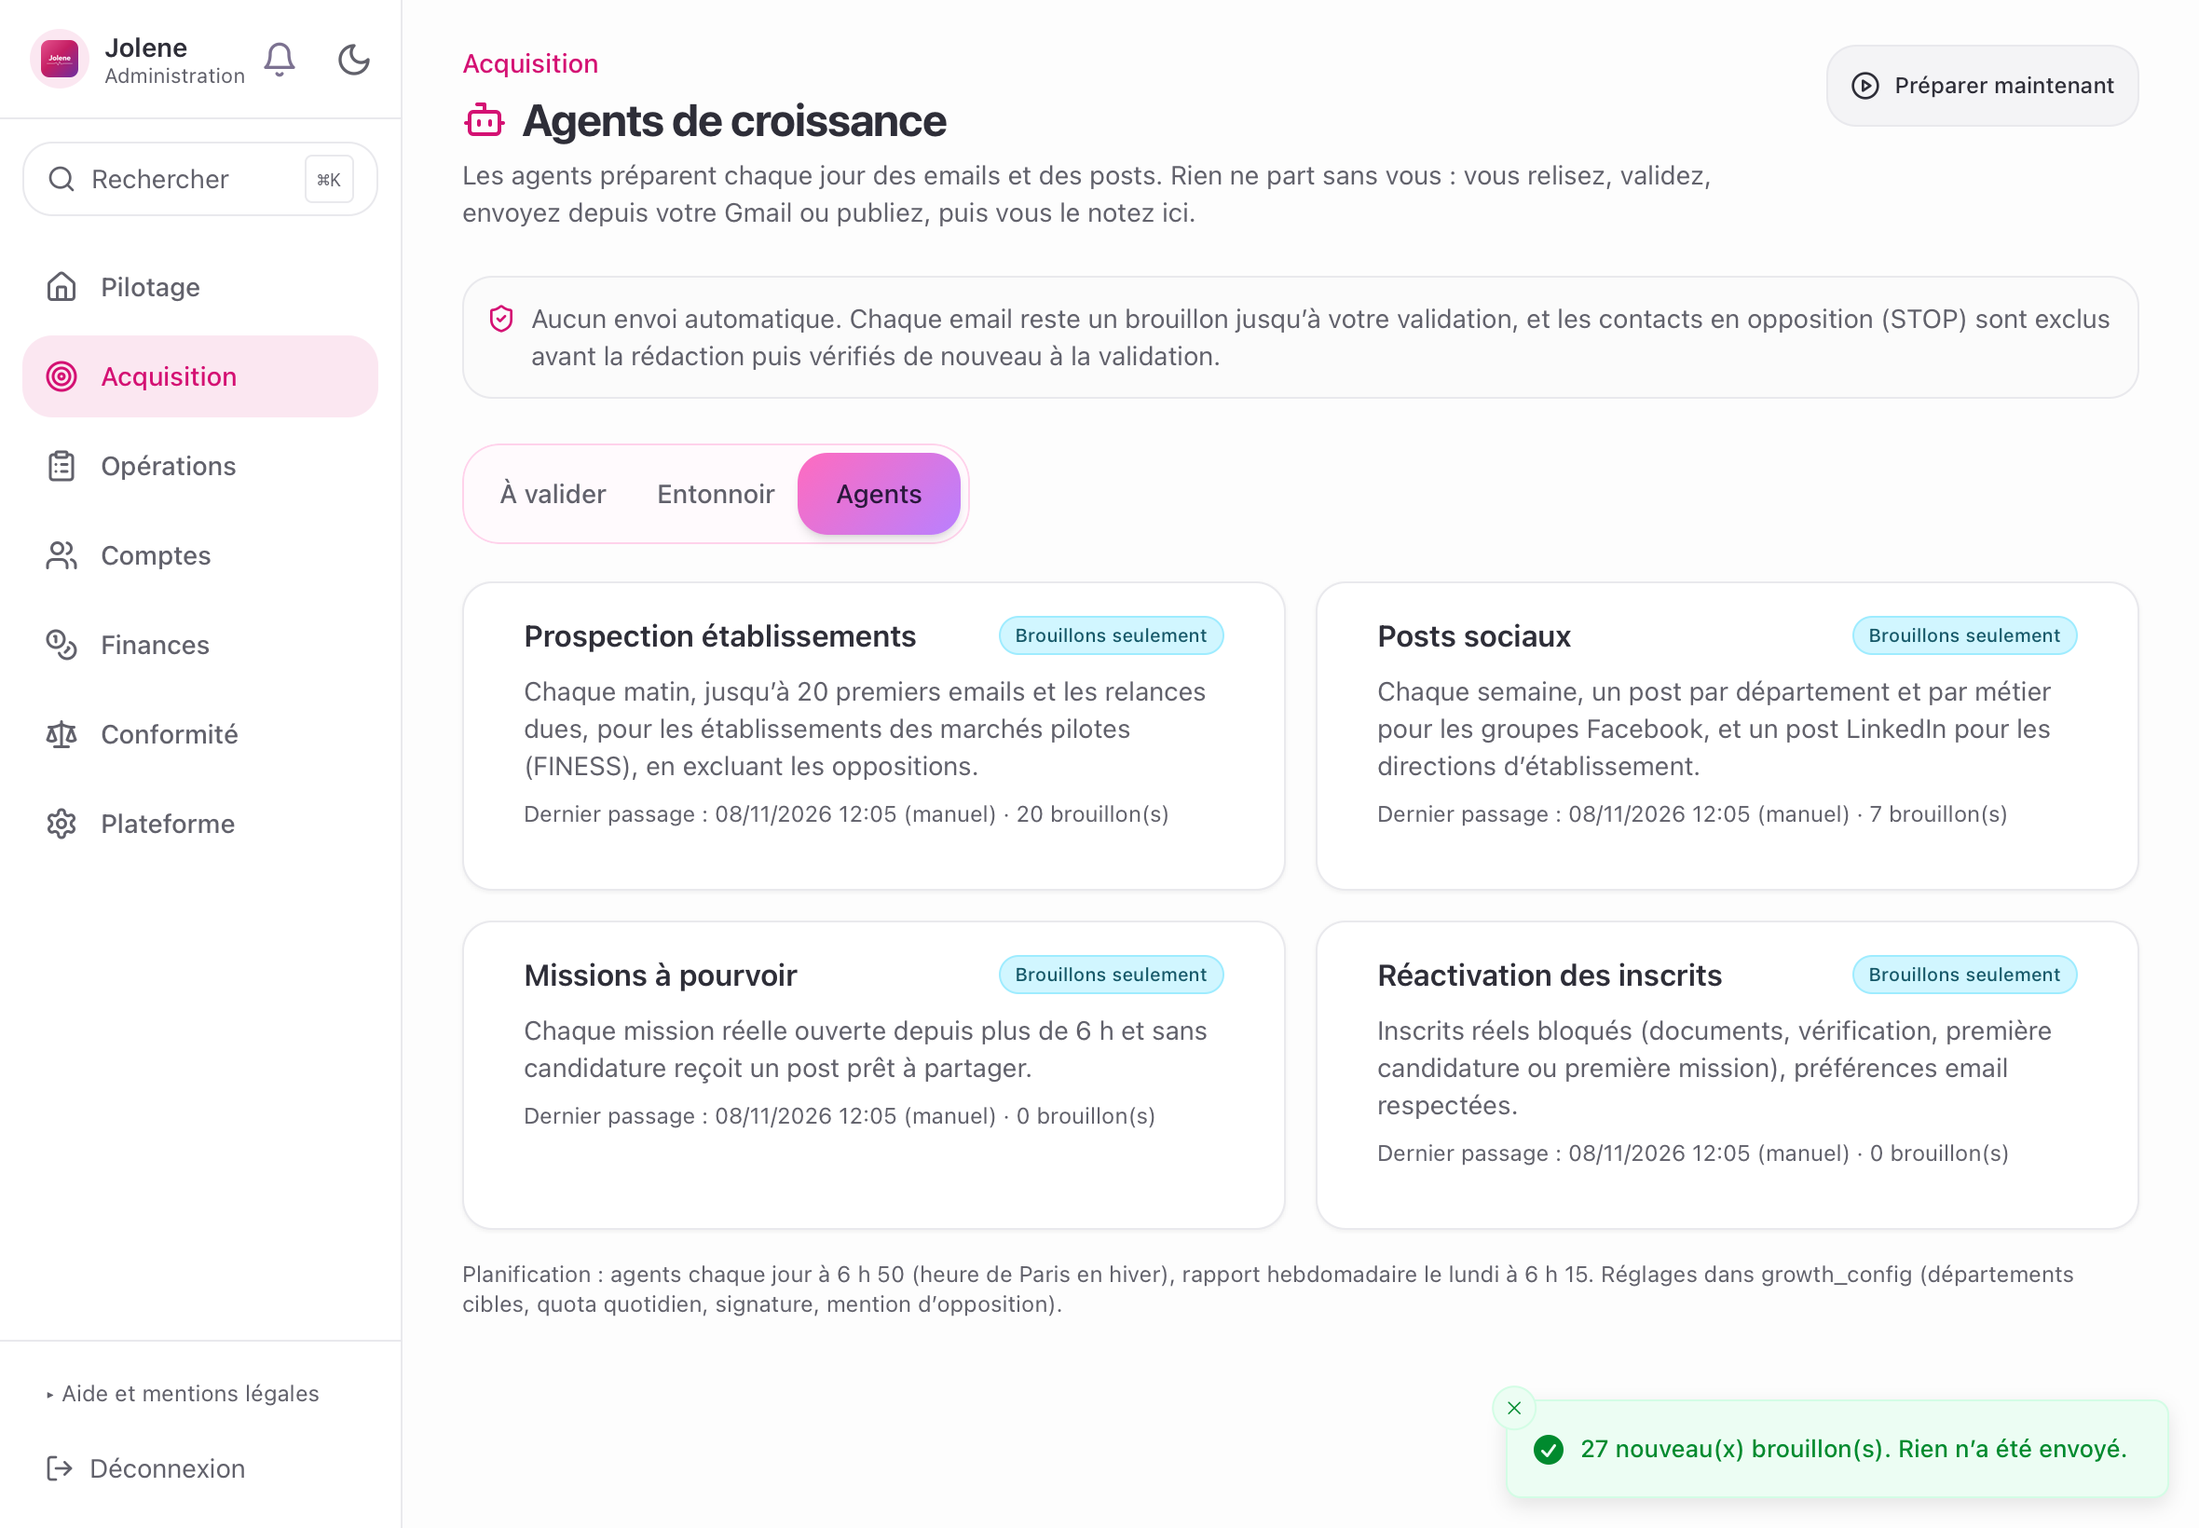
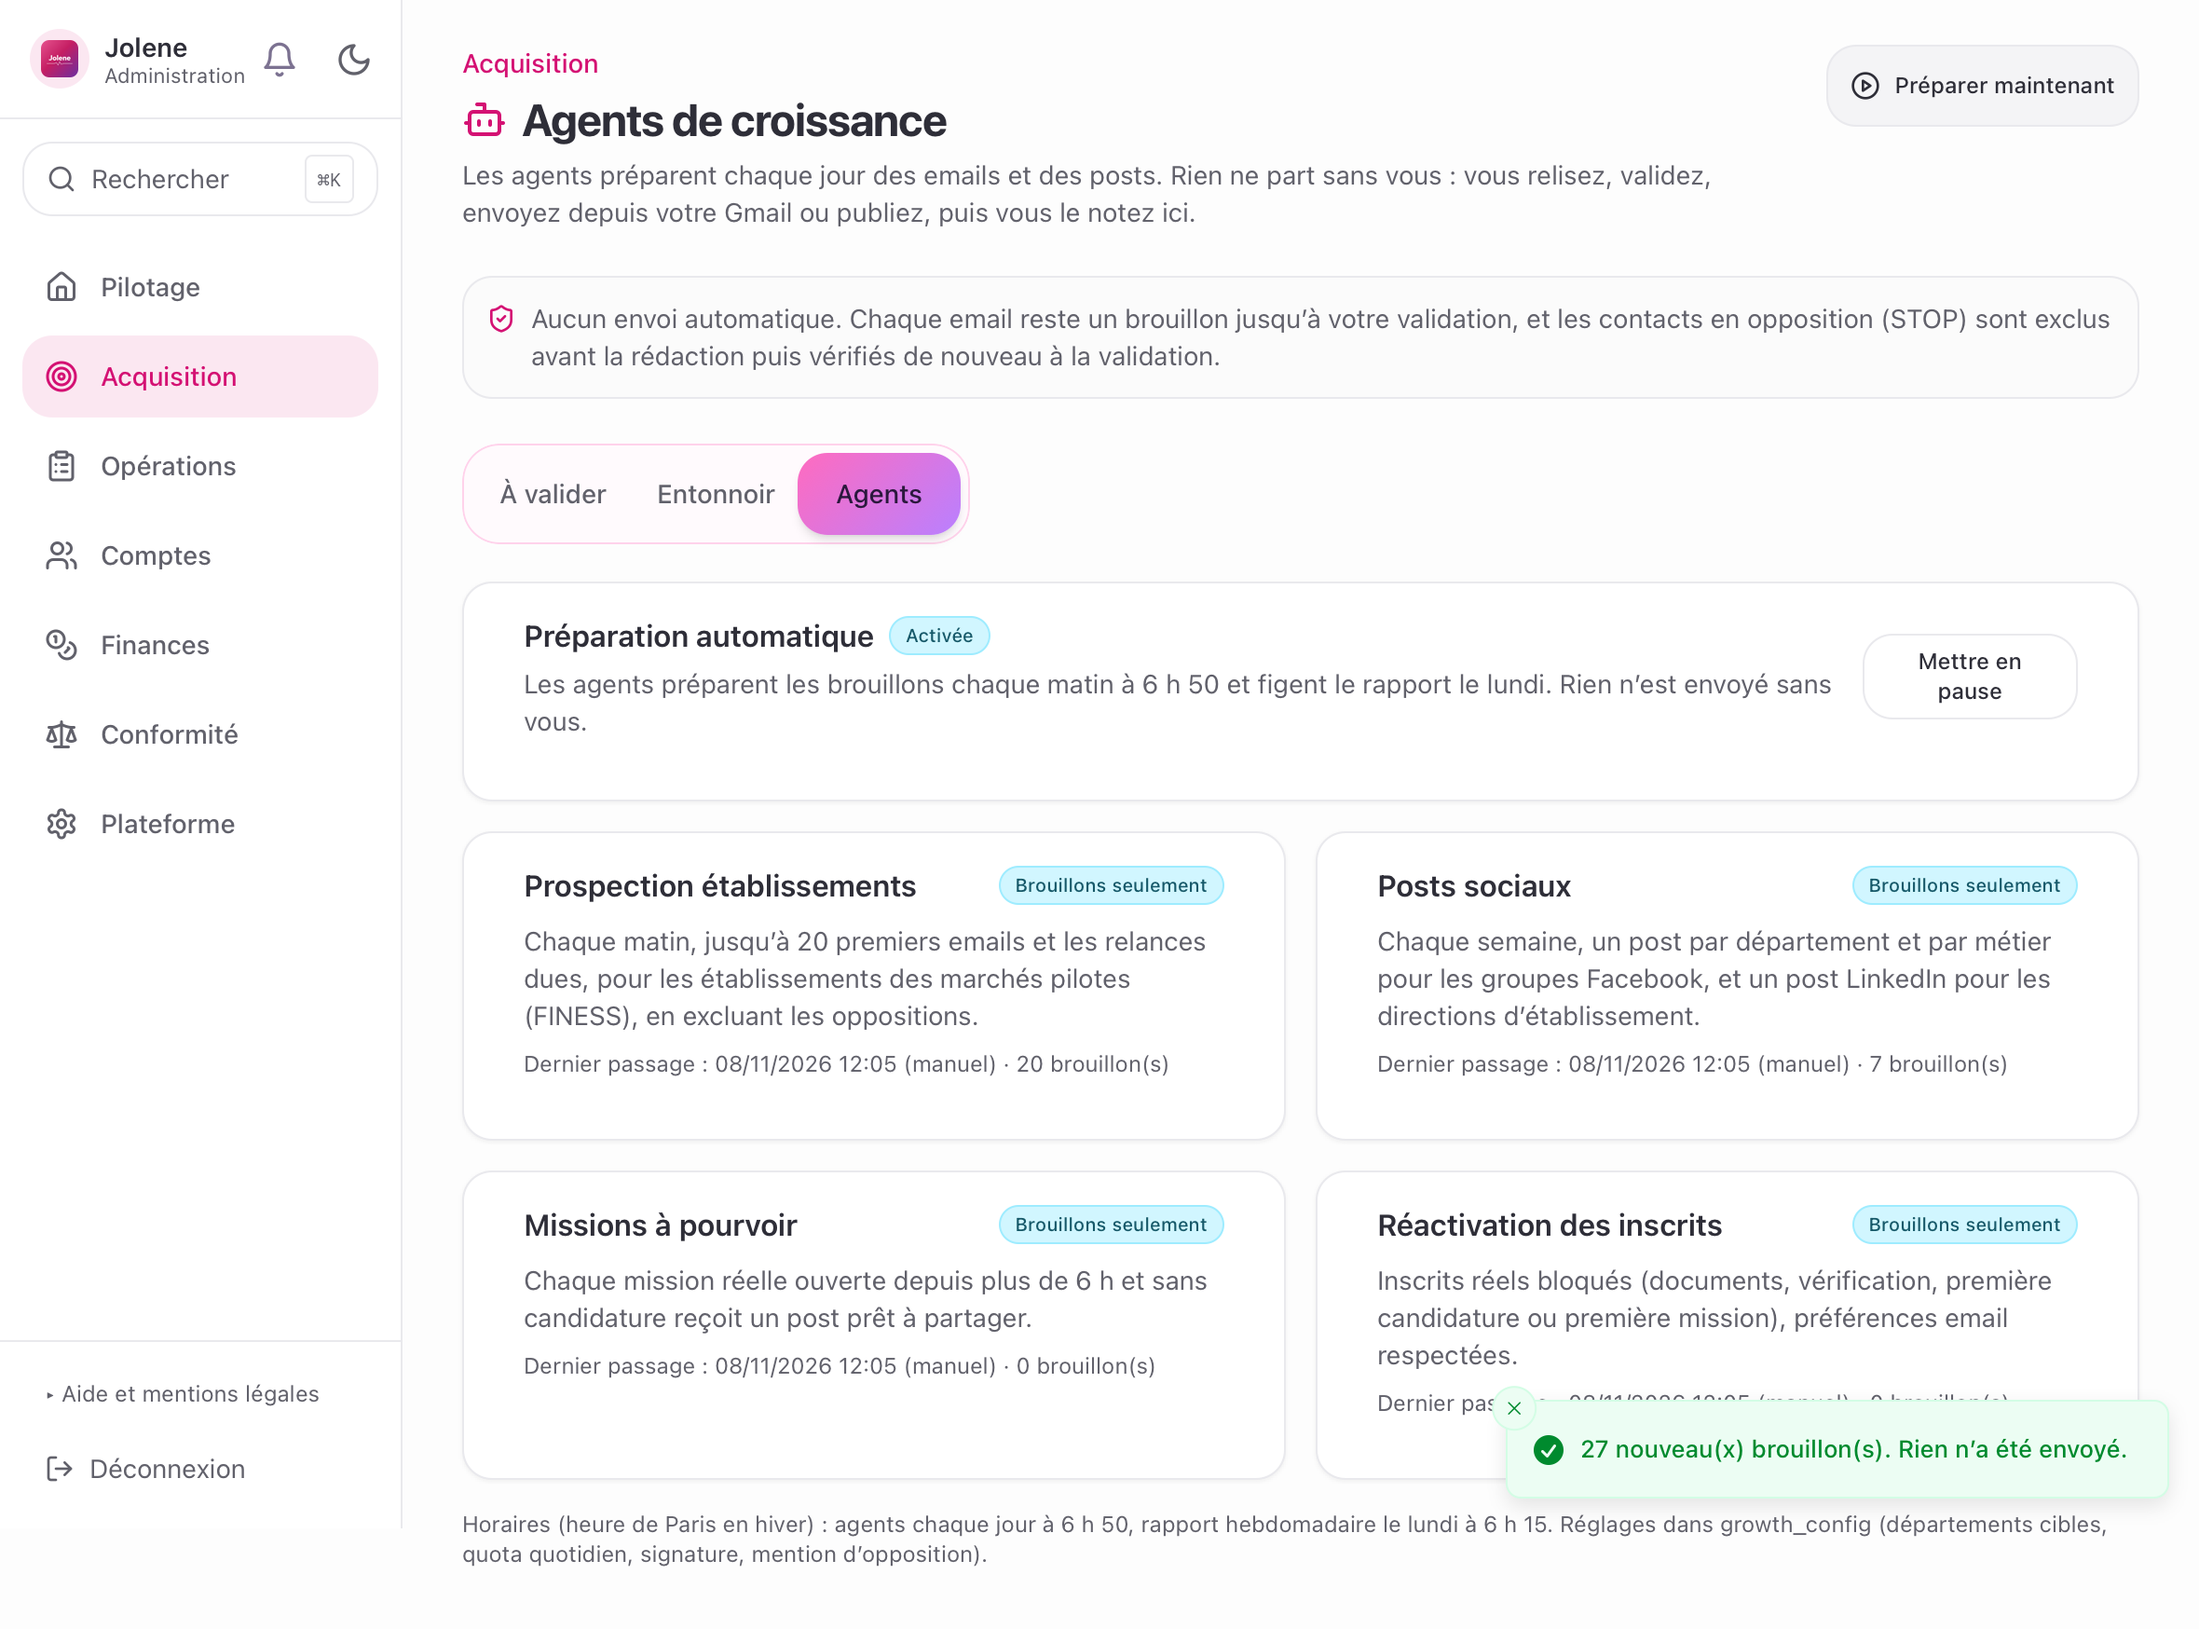
fix(acquisition): crons des agents créés désactivés, activation par la fondatrice depuis l'admin
Le staging doit rester sans cron actif (garde de la suite suppression F161) :
les deux crons jolene_growth_* sont désormais planifiés puis désactivés
partout. Nouvelle RPC admin fn_admin_growth_planification(p_actif) (NULL =
lecture) qui active/pause les deux crons et le drapeau growth_config ;
bouton « Activer la préparation automatique » dans l'onglet Agents.
Test SQL et recette (5 formats) mis à jour.

diff --git a/src/pages/admin/AdminAgentsCroissance.tsx b/src/pages/admin/AdminAgentsCroissance.tsx
@@ -46,6 +46,12 @@ interface Execution {
   erreur: string | null;
 }
 
+interface Planification {
+  actif: boolean;
+  pg_cron: boolean;
+  jobs: Array<{ jobname: string; schedule: string; active: boolean }>;
+}
+
 interface RapportHebdo {
   semaine_debut: string;
   donnees: EntonnoirCroissance;
@@ -281,6 +287,8 @@ export default function AdminAgentsCroissance() {
   const [rapports, setRapports] = useState<RapportHebdo[]>([]);
   const [executions, setExecutions] = useState<Execution[]>([]);
   const [lancement, setLancement] = useState(false);
+  const [planif, setPlanif] = useState<Planification | null>(null);
+  const [bascule, setBascule] = useState(false);
   const [erreur, setErreur] = useState<string | null>(null);
 
   const chargerFile = useCallback(async () => {
@@ -305,11 +313,26 @@ export default function AdminAgentsCroissance() {
   }, [jours]);
 
   const chargerExecutions = useCallback(async () => {
-    const { data, error } = await db.from('growth_agent_executions')
-      .select('id, agent, declencheur, debut_le, brouillons_crees, erreur')
-      .order('debut_le', { ascending: false }).limit(40);
-    if (!error) setExecutions((data ?? []) as Execution[]);
+    const [exec, plan] = await Promise.all([
+      db.from('growth_agent_executions')
+        .select('id, agent, declencheur, debut_le, brouillons_crees, erreur')
+        .order('debut_le', { ascending: false }).limit(40),
+      db.rpc('fn_admin_growth_planification', { p_actif: null }),
+    ]);
+    if (!exec.error) setExecutions((exec.data ?? []) as Execution[]);
+    if (plan.error) setErreur(plan.error.message); else setPlanif(plan.data as Planification);
   }, []);
+
+  const basculerPlanification = async (actif: boolean) => {
+    setBascule(true);
+    const { data, error } = await db.rpc('fn_admin_growth_planification', { p_actif: actif });
+    setBascule(false);
+    if (error) { toast.error(error.message); return; }
+    setPlanif(data as Planification);
+    toast.success(actif
+      ? 'Préparation automatique activée : brouillons chaque matin à 6 h 50, rapport le lundi. Aucun envoi.'
+      : 'Préparation automatique en pause.');
+  };
 
   useEffect(() => { if (vue === 'file') void chargerFile(); }, [vue, chargerFile]);
   useEffect(() => { if (vue === 'entonnoir') void chargerEntonnoir(); }, [vue, chargerEntonnoir]);
@@ -470,6 +493,33 @@ export default function AdminAgentsCroissance() {
           </TabsContent>
 
           <TabsContent value="agents" className="mt-5 space-y-4">
+            <CardY2K hoverLift={false} data-testid="planification-croissance">
+              <CardY2KContent className="flex flex-col gap-3 sm:flex-row sm:items-center sm:justify-between">
+                <div className="min-w-0 space-y-1">
+                  <div className="flex flex-wrap items-center gap-2">
+                    <h3 className="font-semibold text-foreground">Préparation automatique</h3>
+                    {planif === null ? null : planif.actif
+                      ? <BadgeY2K variant="success" size="sm">Activée</BadgeY2K>
+                      : <BadgeY2K variant="warning" size="sm">En pause</BadgeY2K>}
+                  </div>
+                  <p className="text-sm text-muted-foreground">
+                    {planif?.actif
+                      ? 'Les agents préparent les brouillons chaque matin à 6 h 50 et figent le rapport le lundi. Rien n’est envoyé sans vous.'
+                      : 'Les agents ne tournent que si vous cliquez sur « Préparer maintenant ». Activez la préparation pour recevoir les brouillons chaque matin.'}
+                  </p>
+                </div>
+                {planif === null ? null : (
+                  <BoutonY2K
+                    size="sm"
+                    variant={planif.actif ? 'secondary' : 'primary'}
+                    onClick={() => basculerPlanification(!planif.actif)}
+                    loading={bascule}
+                  >
+                    {planif.actif ? 'Mettre en pause' : 'Activer la préparation automatique'}
+                  </BoutonY2K>
+                )}
+              </CardY2KContent>
+            </CardY2K>
             <div className="grid gap-4 lg:grid-cols-2">
               {(Object.keys(AGENTS) as AgentCroissance[]).map((a) => {
                 const derniere = derniereParAgent.get(a);
@@ -491,7 +541,7 @@ export default function AdminAgentsCroissance() {
               })}
             </div>
             <p className="text-xs text-muted-foreground">
-              Planification : agents chaque jour à 6 h 50 (heure de Paris en hiver), rapport hebdomadaire le lundi à 6 h 15. Réglages dans
+              Horaires (heure de Paris en hiver) : agents chaque jour à 6 h 50, rapport hebdomadaire le lundi à 6 h 15. Réglages dans
               growth_config (départements cibles, quota quotidien, signature, mention d’opposition).
             </p>
           </TabsContent>

diff --git a/e2e/recette-complete-admin-agents-croissance.spec.ts b/e2e/recette-complete-admin-agents-croissance.spec.ts
@@ -61,6 +61,8 @@ async function simulerAgents(page: Page) {
   const decisions: Array<{ p_id: string; p_action: string; p_sujet: string | null }> = [];
   let executions: Array<Record<string, unknown>> = [];
   let lancements = 0;
+  let planifActive = false;
+  const bascules: Array<boolean | null> = [];
   const cors = { 'access-control-allow-origin': '*', 'access-control-allow-headers': '*', 'access-control-expose-headers': 'content-range' };
 
   await page.route('**/rest/v1/growth_brouillons**', async (route) => {
@@ -78,6 +80,13 @@ async function simulerAgents(page: Page) {
   await page.route('**/rest/v1/rpc/fn_admin_growth_entonnoir', async (route) => {
     expect(route.request().postDataJSON()).toEqual({ p_jours: 7 });
     return route.fulfill({ json: entonnoir, headers: cors });
+  });
+  await page.route('**/rest/v1/rpc/fn_admin_growth_planification', async (route) => {
+    const p = route.request().postDataJSON();
+    bascules.push(p.p_actif);
+    if (p.p_actif !== null) planifActive = p.p_actif;
+    const jobs = ['jolene_growth_agents_quotidien', 'jolene_growth_rapport_hebdo'].map((jobname) => ({ jobname, schedule: jobname.endsWith('hebdo') ? '15 5 * * 1' : '50 5 * * *', active: planifActive }));
+    return route.fulfill({ json: { actif: planifActive, pg_cron: true, jobs }, headers: cors });
   });
   await page.route('**/rest/v1/rpc/fn_admin_growth_executer_agents', async (route) => {
     lancements++;
@@ -111,7 +120,7 @@ async function simulerAgents(page: Page) {
     (window as unknown as { __ouverts: string[] }).__ouverts = [];
     window.open = ((url?: string | URL) => { (window as unknown as { __ouverts: string[] }).__ouverts.push(String(url)); return null; }) as typeof window.open;
   }, { id: ids.user });
-  return { etat, brouillons, decisions, lancements: () => lancements };
+  return { etat, brouillons, decisions, lancements: () => lancements, bascules };
 }
 
 test('admin — agents de croissance : file, validation Gmail, constat d’envoi, opposition, reprise, entonnoir', async ({ page }, info) => {
@@ -190,9 +199,16 @@ test('admin — agents de croissance : file, validation Gmail, constat d’envoi
   await expect(page.getByText('Le premier rapport sera figé lundi matin pour la semaine écoulée.')).toBeVisible();
   await preuve(page, 'agents-croissance-entonnoir', info);
 
-  // État 6 — agents : lancement manuel, brouillons seulement.
+  // État 6 — agents : préparation automatique en pause par défaut, activation explicite.
   await page.getByRole('tab', { name: 'Agents' }).click();
+  const planification = page.getByTestId('planification-croissance');
+  await expect(planification.getByText('En pause', { exact: true })).toBeVisible();
   await expect(page.getByText('Dernier passage : aucun pour l’instant')).toHaveCount(4);
+  await planification.getByRole('button', { name: 'Activer la préparation automatique' }).click();
+  await expect(planification.getByText('Activée', { exact: true })).toBeVisible();
+  await expect(planification.getByRole('button', { name: 'Mettre en pause' })).toBeVisible();
+  await stabiliserLectures(page); await page.reload();
+  await expect(page.getByTestId('planification-croissance').getByText('Activée', { exact: true })).toBeVisible();
   await page.getByRole('button', { name: 'Préparer maintenant' }).click();
   await expect(page.getByText('27 nouveau(x) brouillon(s). Rien n’a été envoyé.')).toBeVisible();
   await expect(page.getByText(/Dernier passage : .*\(manuel\) · 20 brouillon\(s\)/)).toBeVisible();
@@ -202,6 +218,7 @@ test('admin — agents de croissance : file, validation Gmail, constat d’envoi
 
   // Aucune écriture hors des trois RPC prévues, aucune requête externe.
   expect(sim.decisions.map((d) => d.p_action)).toEqual(['VALIDER', 'VALIDER', 'MARQUER_ENVOYE']);
+  expect(sim.bascules).toEqual([null, true, null, null]);
   expect(sim.etat.ecritures).toEqual([]);
   expect(sim.etat.inconnues).toEqual([]);
   expect(sim.etat.erreurs).toEqual([]);

diff --git a/docs/AGENTS_CROISSANCE.md b/docs/AGENTS_CROISSANCE.md
@@ -101,9 +101,16 @@ Ce sont quatre routines SQL quotidiennes, plus un rapport hebdomadaire. **Aucune
 que ce soit** : ni pg_net, ni Resend, ni SMS, ni publication. Elles n'appellent pas de LLM, donc
 ne coûtent rien en tokens.
 
+Les deux crons (`jolene_growth_agents_quotidien`, `jolene_growth_rapport_hebdo`) sont créés
+**désactivés**, en production comme sur le staging, qui doit rester sans cron actif. La fondatrice
+les active depuis l'onglet Agents (« Activer la préparation automatique »). Ce bouton appelle
+`fn_admin_growth_planification(true)` et ne demande aucun SQL manuel en production.
+« Préparer maintenant » lance les agents à la demande, que la préparation automatique soit active
+ou non.
+
 | Agent | Quand | Produit |
 |---|---|---|
-| Prospection établissements | chaque jour à 05:50 UTC | Jusqu'à 20 premiers emails par jour (file plafonnée à 60), plus les relances étapes 2 et 3 des contacts CRM échus. Détail ci-dessous. |
+| Prospection établissements | chaque jour à 05:50 UTC, une fois activé | Jusqu'à 20 premiers emails par jour (file plafonnée à 60), plus les relances étapes 2 et 3 des contacts CRM échus. Détail ci-dessous. |
 | Posts sociaux | chaque jour (idempotent à la semaine) | 1 post Facebook par département × {AS, IDE} et 1 post LinkedIn par semaine. Chiffres réels : missions ouvertes réelles, ou à défaut données BMO publiques. Groupes suggérés. |
 | Missions à pourvoir | chaque jour | 1 post par mission réelle ouverte depuis plus de 6 h, sans candidature, avec lien `/mission/:id` et UTM |
 | Réactivation | chaque jour | Email aux inscrits réels bloqués (documents, vérification, candidature, première mission), au plus un tous les 14 jours, `preferences_notifications` respecté |
@@ -163,13 +170,15 @@ Il n'y a aucune mention réglementaire.
 ## 6. Ce qui attend le feu vert de Gabrielle
 
 1. **Merge de cette PR** (tiering B9 : nouvelles tables RLS, RPC SECURITY DEFINER, GRANT ; HARD
-   STOP n°4 sur le wording du §5). Après le merge, les crons produisent des brouillons dès le
-   lendemain 06:50 (heure de Paris).
-2. **Premiers envois réels** : c'est la fondatrice qui valide et envoie chaque email depuis son Gmail.
-3. **Réactivation des imports BOAMP, BMO et FINESS** (crons en pause) : à rejouer après correction
+   STOP n°4 sur le wording du §5).
+2. **Activation** : dans Admin → Agents de croissance → onglet Agents, cliquer sur « Activer la
+   préparation automatique ». Les brouillons arrivent ensuite chaque matin à 06:50 (heure de Paris).
+   On peut aussi cliquer sur « Préparer maintenant » pour en avoir tout de suite.
+3. **Premiers envois réels** : c'est la fondatrice qui valide et envoie chaque email depuis son Gmail.
+4. **Réactivation des imports BOAMP, BMO et FINESS** (crons en pause) : à rejouer après correction
    de l'authentification de service, une source à la fois, en surveillant le CPU.
-4. **`automatisations_marketing_actives=true`** (relance, digest, avis) : non recommandé avant
+5. **`automatisations_marketing_actives=true`** (relance, digest, avis) : non recommandé avant
    d'avoir ajouté le lien de désinscription en 1 clic et le respect de `preferences_notifications`
    dans ces trois Edge Functions.
-5. **Activer Vercel Web Analytics** (ou un équivalent sans cookie) pour mesurer le trafic SEO.
-6. **Instruction juridique** de l'argument « vacation directe vs intérim » (§3) avant tout usage public.
+6. **Activer Vercel Web Analytics** (ou un équivalent sans cookie) pour mesurer le trafic SEO.
+7. **Instruction juridique** de l'argument « vacation directe vs intérim » (§3) avant tout usage public.
